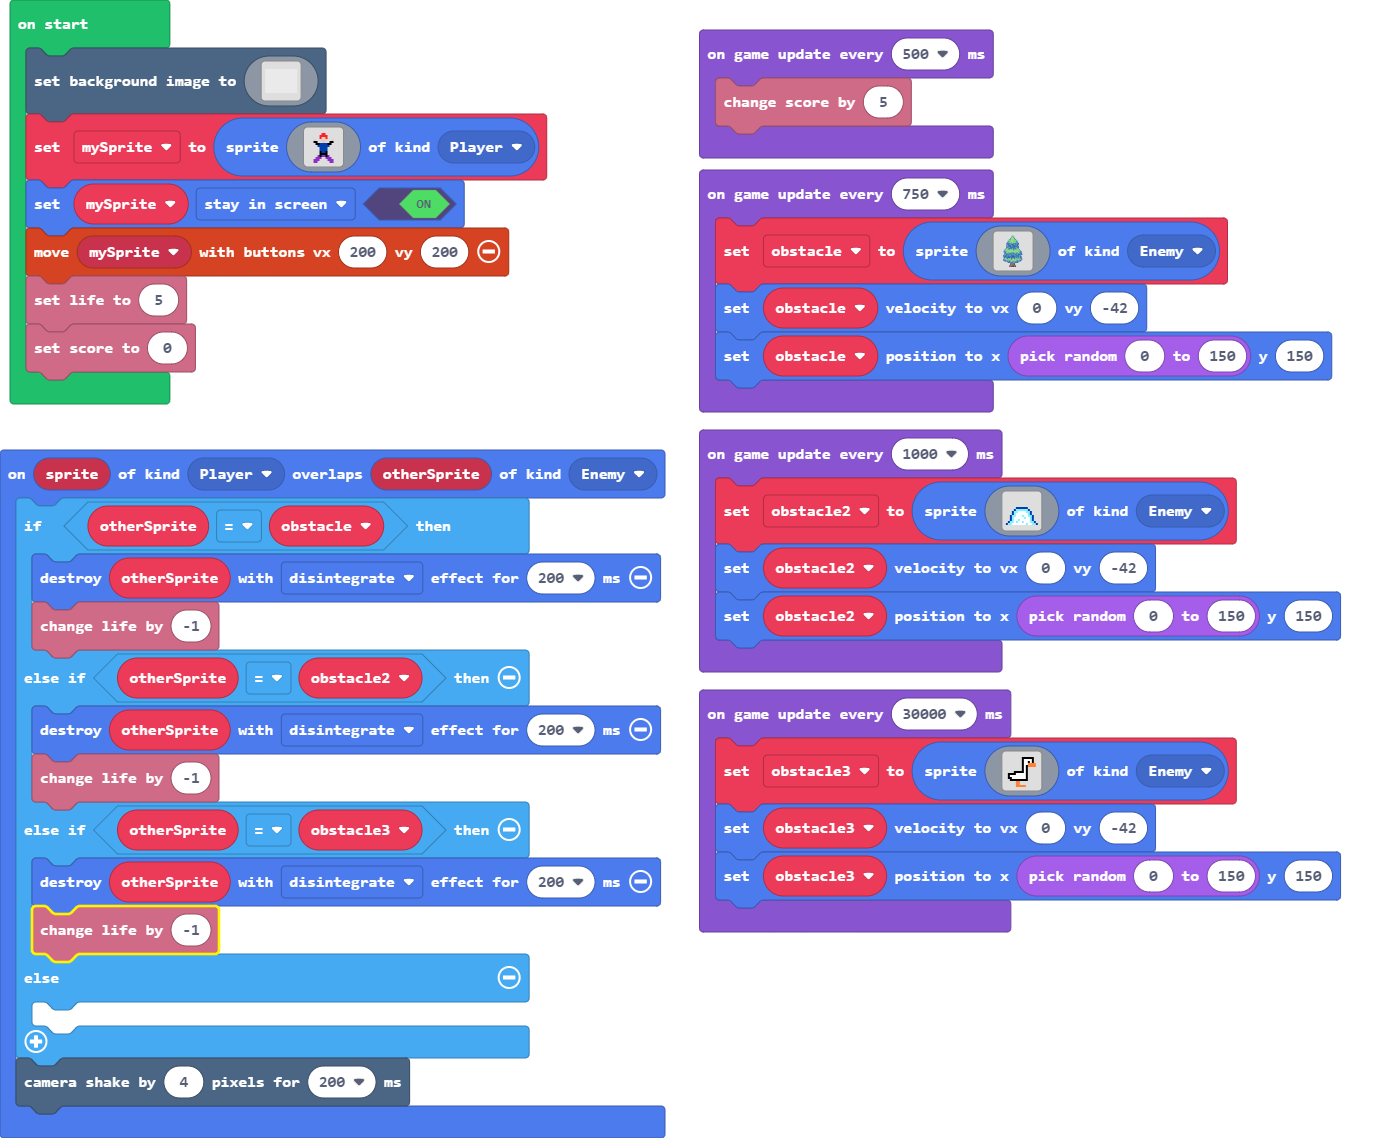
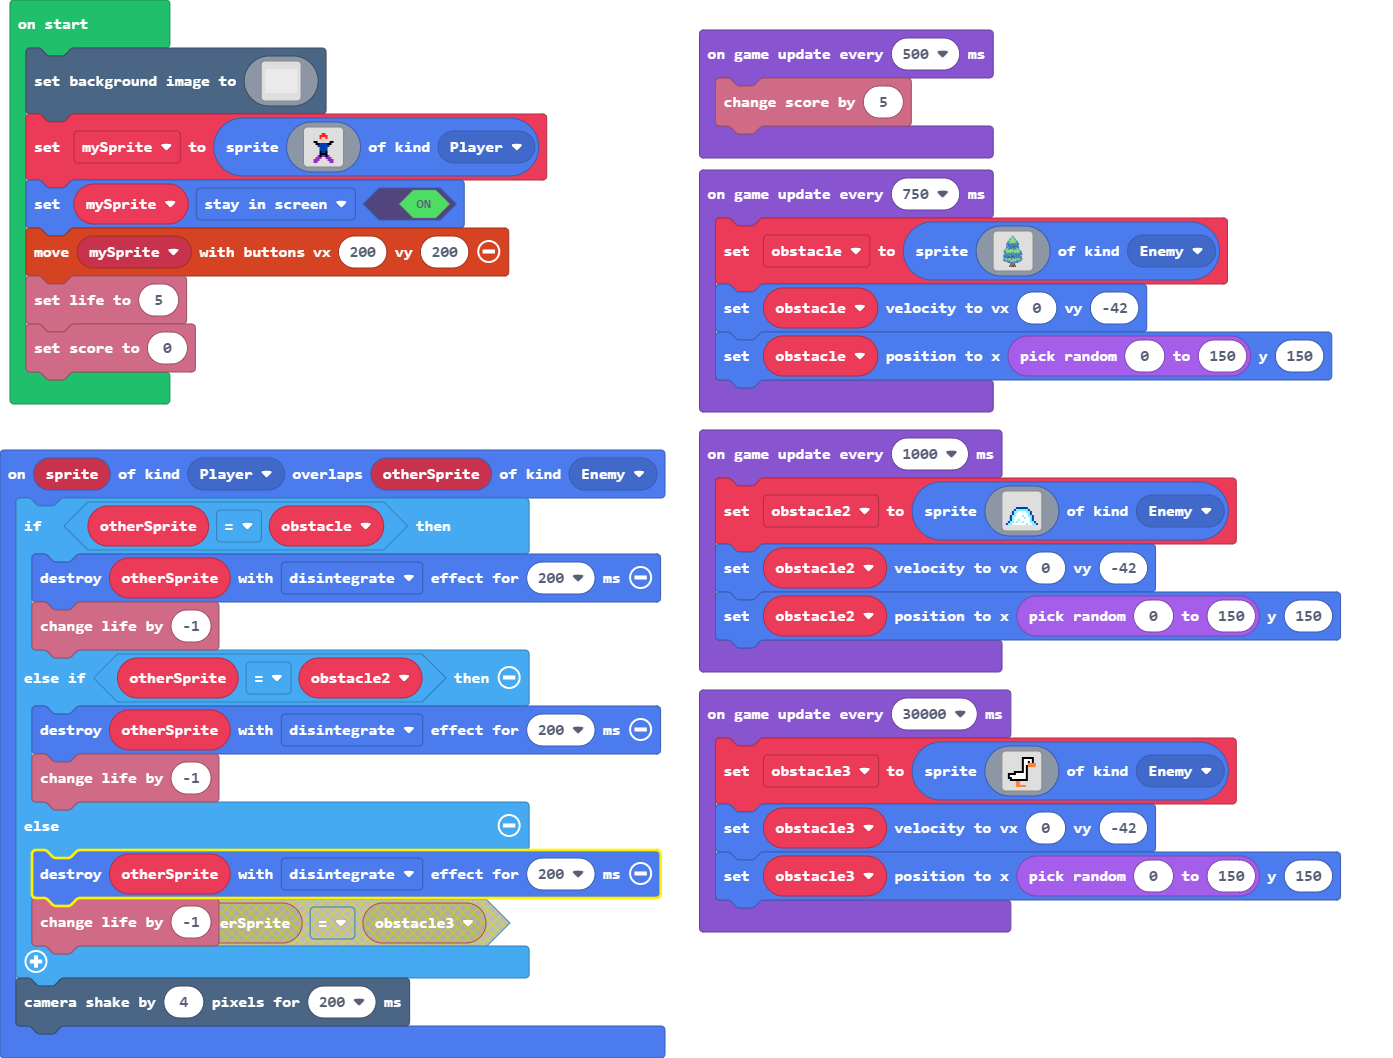
Update main.blocks, main.ts

diff --git a/main.ts b/main.ts
@@ -10,11 +10,9 @@ sprites.onOverlap(SpriteKind.Player, SpriteKind.Enemy, function (sprite, otherSp
     } else if (otherSprite == obstacle2) {
         otherSprite.destroy(effects.disintegrate, 200)
         info.changeLifeBy(-1)
-    } else if (otherSprite == obstacle3) {
+    } else {
         otherSprite.destroy(effects.disintegrate, 200)
         info.changeLifeBy(-1)
-    } else {
-    	
     }
     scene.cameraShake(4, 200)
 })
